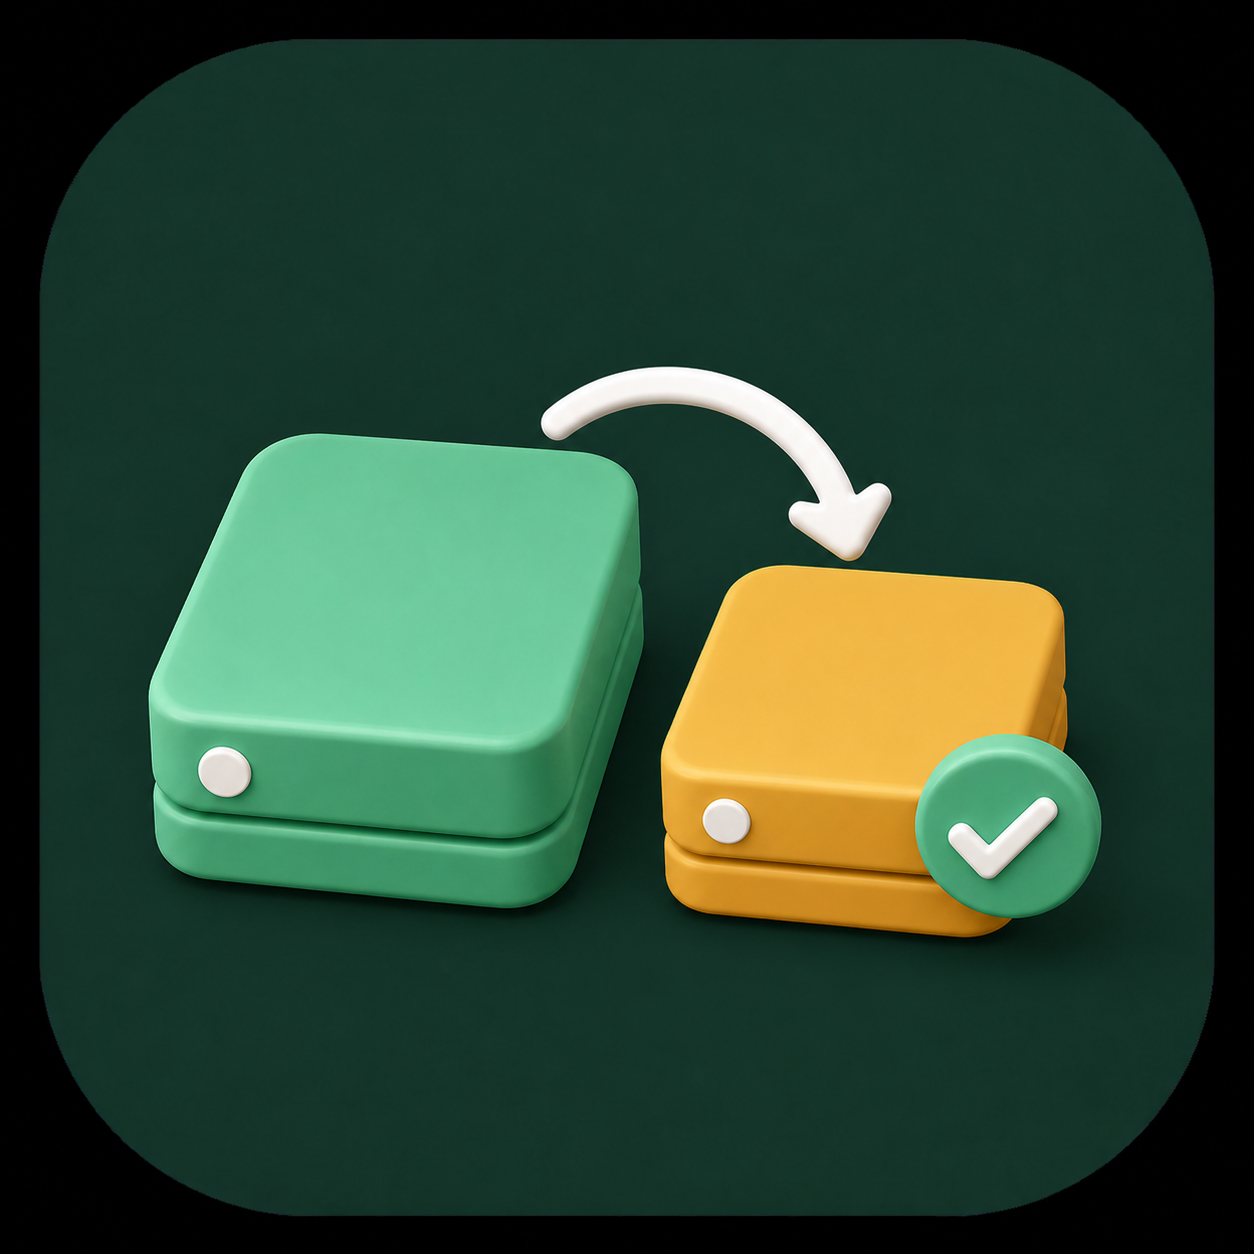
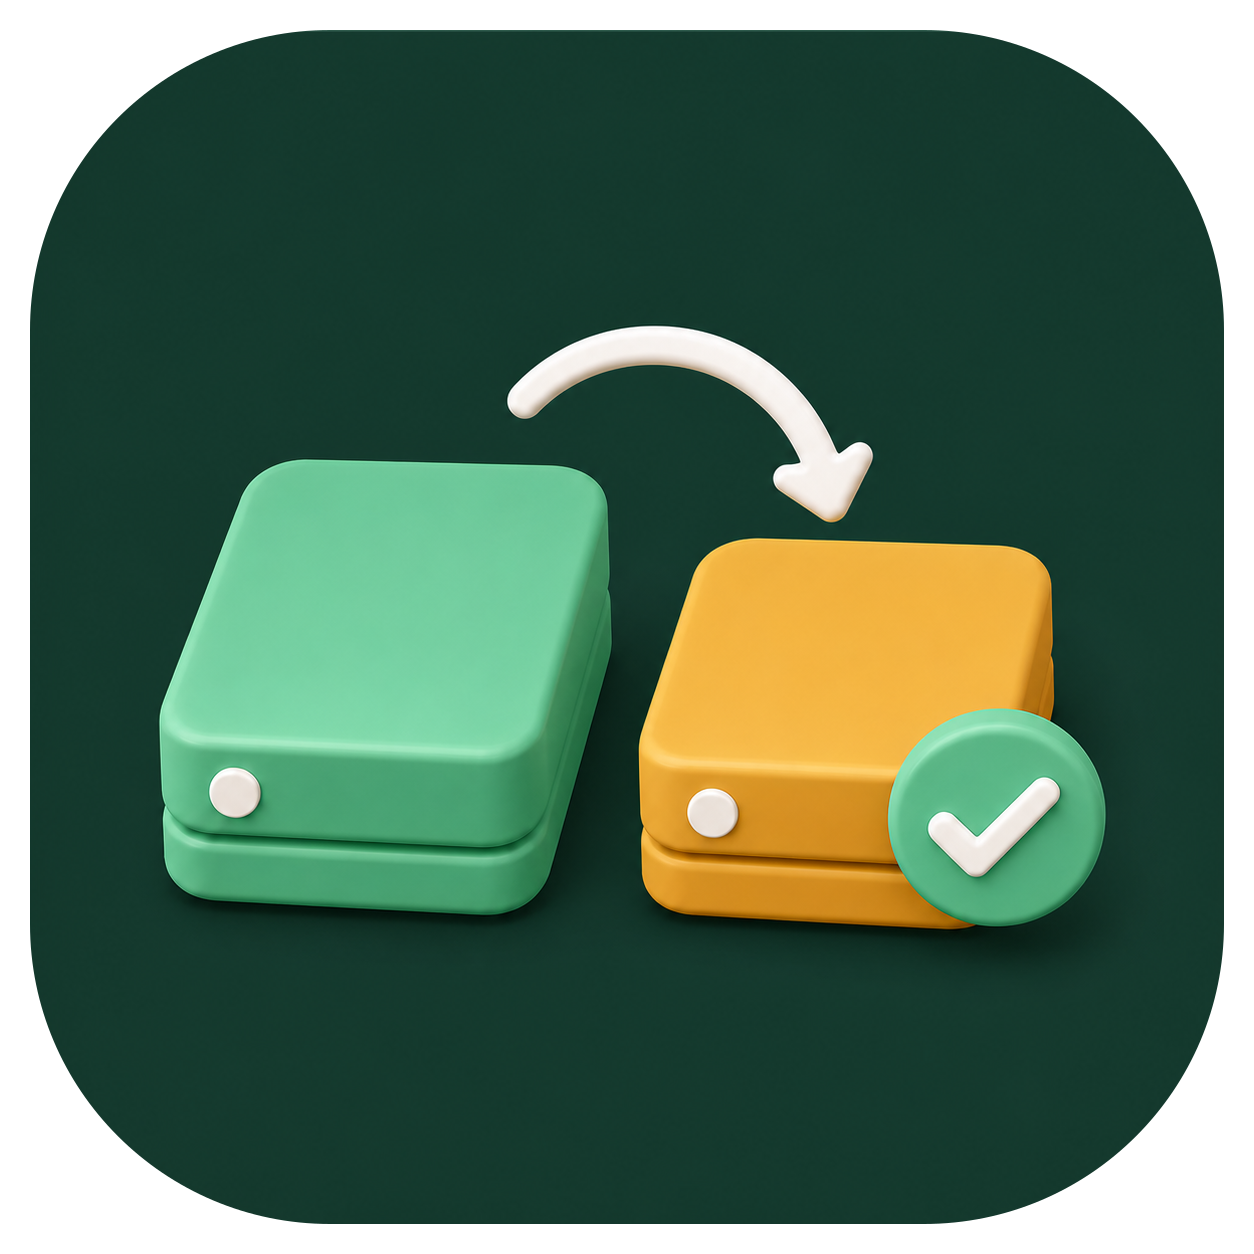
feat(branding): uniforma le icone degli strumenti FileX

Changed region(s): [[0.0, 0.0, 1.0, 1.0], [0.0933, 0.2488, 0.9019, 0.7464]]

diff --git a/apps/filex-desktop/branding-sources/README.md b/apps/filex-desktop/branding-sources/README.md
@@ -1,0 +1,5 @@
+# Master delle icone FileX
+
+Questi PNG sono i master approvati delle icone dei tool FileX. Lo script `sync:branding` applica loro la sagoma comune a tessera arrotondata e li propaga nelle icone di sistema, nelle applicazioni che mostrano il proprio marchio e negli asset ottimizzati del sito.
+
+Gli asset storici in `ICONE E LOGHI/filex-generated` restano soltanto come fallback per le copie di lavoro che non includono ancora questi master.
